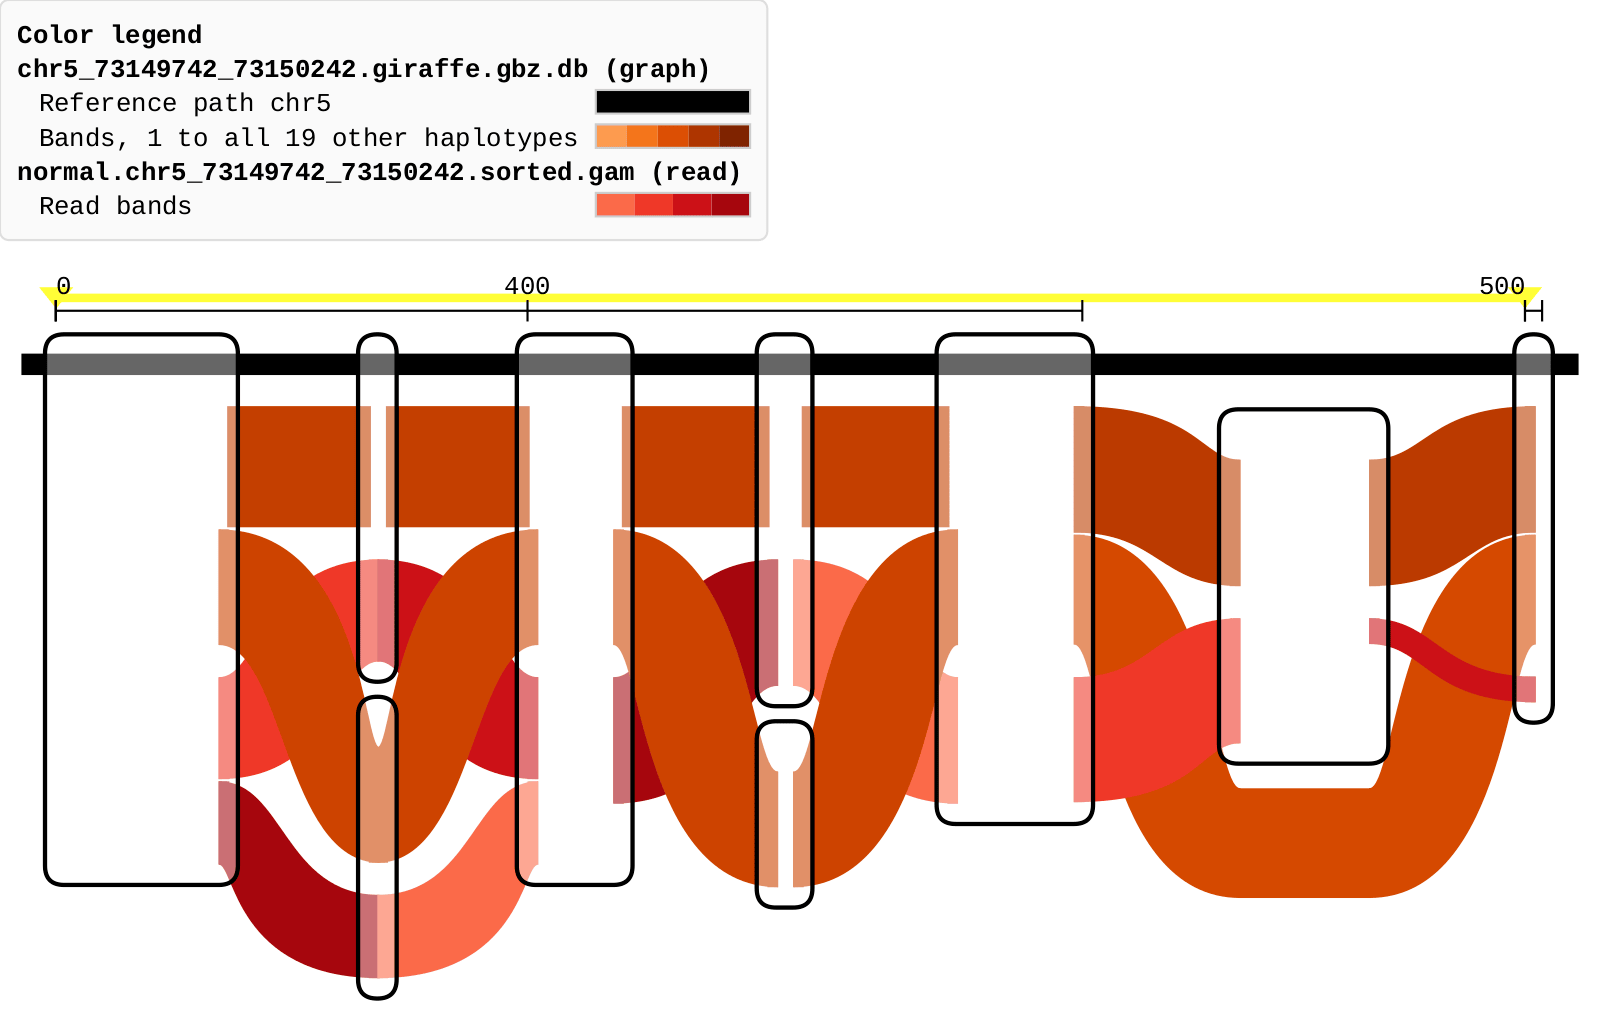
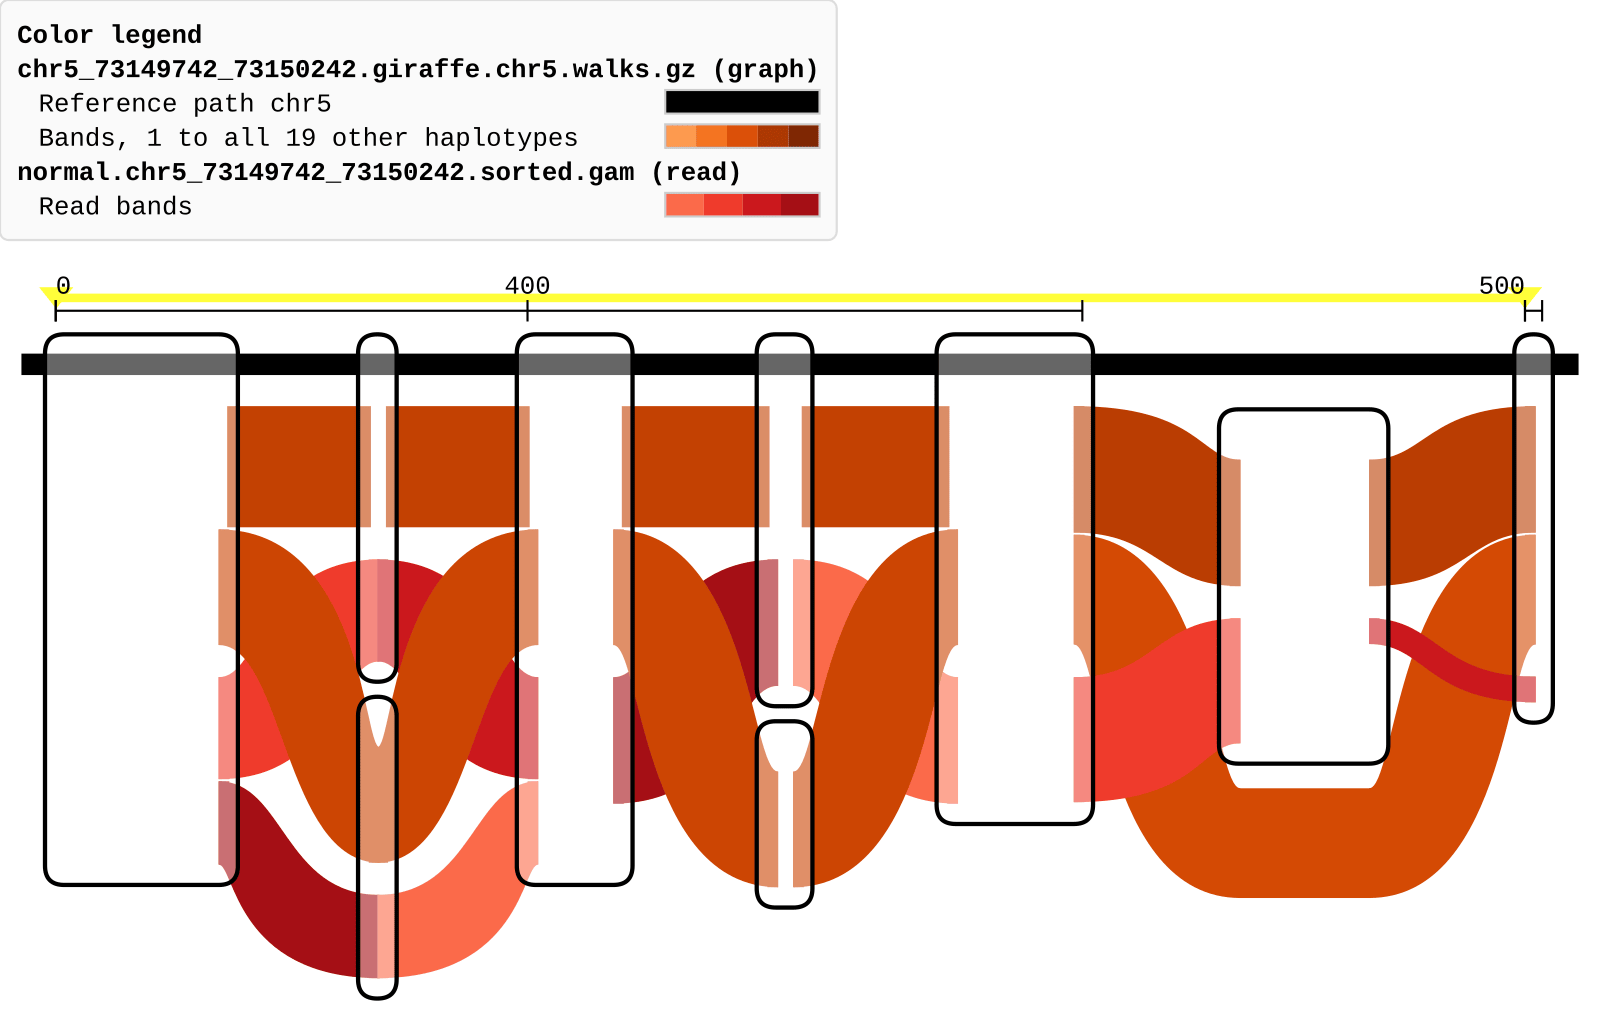
The two chr5 gallery figures are drawn from a walk file: the same picture, with the walk file named in the legend
exampleData/build.sh converts with vg convert --no-translation, since the giraffe
GBZ chops its segments and the default writes the unchopped names its reads do not
use; the four example walk files come out byte for byte as before. The other figures
stay on .gbz.db: a walk file's 1,000 bp of context makes each one wider, and the
hosted HPRC walk file has no bases to label nodes with.

diff --git a/docs/headless-rendering.md b/docs/headless-rendering.md
@@ -327,7 +327,7 @@ at the second.
 ![Banded haplotypes over one sample's reads](images/layers-banded-haplotypes.png)
 
 ```bash
-pnpm tubemap-cli --graph $d/chr5_73149742_73150242.giraffe.gbz.db \
+pnpm tubemap-cli --graph $d/chr5_73149742_73150242.giraffe.chr5.walks.gz \
   --reads $d/normal.chr5_73149742_73150242.sorted.gam --region chr5:1-500 \
   --compressed --banded-haplotypes --read-limit 40 --legend --out banded.svg
 rsvg-convert -w 1600 banded.svg | magick - -background white -flatten \
@@ -343,7 +343,7 @@ around it.
 ![Banded haplotypes over banded reads](images/layers-banded-haplotypes-and-reads.png)
 
 ```bash
-pnpm tubemap-cli --graph $d/chr5_73149742_73150242.giraffe.gbz.db \
+pnpm tubemap-cli --graph $d/chr5_73149742_73150242.giraffe.chr5.walks.gz \
   --reads $d/normal.chr5_73149742_73150242.sorted.gam --region chr5:1-500 \
   --compressed --banded-haplotypes --coarsened --legend --out both.svg
 rsvg-convert -w 1600 both.svg | magick - -background white -flatten \
